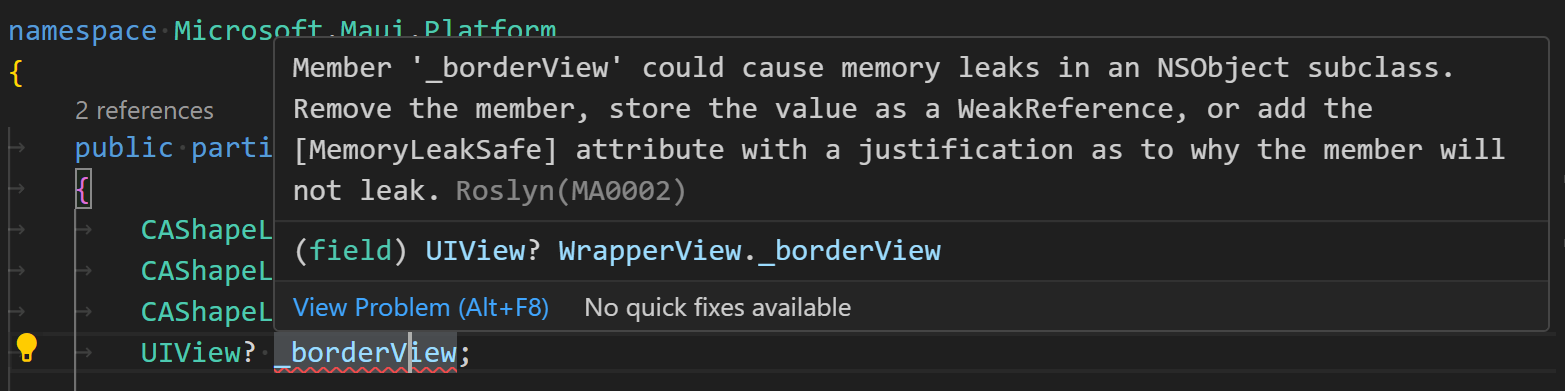
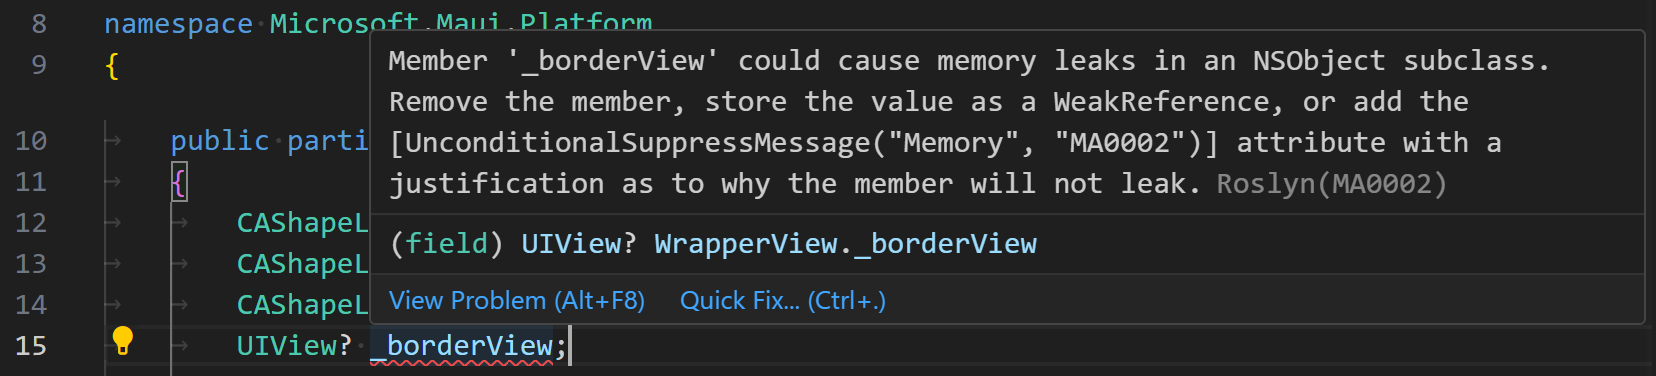
Remove MemoryAnalyzers.Attributes
We can use the BCL's `[UnconditionalSuppressMessage]` instead.

diff --git a/MemoryAnalyzers/MemoryAnalyzers.Test/MemoryAnalyzersUnitTests.cs b/MemoryAnalyzers/MemoryAnalyzers.Test/MemoryAnalyzersUnitTests.cs
@@ -43,18 +43,48 @@ namespace MemoryAnalyzers.Test
 		}
 
 		[TestMethod]
-		public async Task SafeEvent()
+		public async Task UnconditionalSuppressMessage_MA0001()
 		{
 			var test = """
 				class Foo : NSObject
 				{
-					[MemoryLeakSafe("Event tested via MemoryTests.MyEvent")]
+					[UnconditionalSuppressMessage("Memory", "MA0001")]
 					public event EventHandler {|#0:EventName|};
 				}
 			""";
 
 			// 0 warnings
 			await VerifyCS.VerifyAnalyzerAsync(test);
+		}
+
+		[TestMethod]
+		public async Task UnconditionalSuppressMessage_MA0001_Justification()
+		{
+			var test = """
+				class Foo : NSObject
+				{
+					[UnconditionalSuppressMessage("Memory", "MA0001", Justification = "I know what I'm doing! LOL?")]
+					public event EventHandler {|#0:EventName|};
+				}
+			""";
+
+			// 0 warnings
+			await VerifyCS.VerifyAnalyzerAsync(test);
+		}
+
+		[TestMethod]
+		public async Task UnconditionalSuppressMessage_WrongCode()
+		{
+			var test = """
+				class Foo : NSObject
+				{
+					[UnconditionalSuppressMessage("Memory", "ABC1234")]
+					public event EventHandler {|#0:EventName|};
+				}
+			""";
+
+			var expected = VerifyCS.Diagnostic("MA0001").WithLocation(0).WithArguments("EventName");
+			await VerifyCS.VerifyAnalyzerAsync(test, expected);
 		}
 
 		[TestMethod]
@@ -134,12 +164,12 @@ namespace MemoryAnalyzers.Test
 		}
 
 		[TestMethod]
-		public async Task SafeField()
+		public async Task UnconditionalSuppressMessage_MA0002_Field()
 		{
 			var test = """
 				class MyViewSubclass : UIView
 				{
-					[MemoryLeakSafe("Field tested via MemoryTests.MyField")]
+					[UnconditionalSuppressMessage("Memory", "MA0002")]
 					public UIView {|#0:FieldName|};
 				}
 			""";
@@ -182,12 +212,12 @@ namespace MemoryAnalyzers.Test
 		}
 
 		[TestMethod]
-		public async Task SafeProperty()
+		public async Task UnconditionalSuppressMessage_MA0002_Property()
 		{
 			var test = """
 				class MyViewSubclass : UIView
 				{
-					[MemoryLeakSafe("Property tested via MemoryTests.MyProperty")]
+					[UnconditionalSuppressMessage("Memory", "MA0002")]
 					public UIView {|#0:FieldName|} { get; set; }
 				}
 			""";
@@ -202,7 +232,7 @@ namespace MemoryAnalyzers.Test
 				[Register(Name = "UITextField", IsWrapper = true)]
 				class UITextField
 				{
-					[MemoryLeakSafe("Ignore for this test")]
+					[UnconditionalSuppressMessage("Memory", "MA0001")]
 					public event EventHandler EditingDidBegin;
 				}
 
@@ -228,7 +258,7 @@ namespace MemoryAnalyzers.Test
 				[Register(Name = "UITextField", IsWrapper = true)]
 				class UITextField
 				{
-					[MemoryLeakSafe("Ignore for this test")]
+					[UnconditionalSuppressMessage("Memory", "MA0001")]
 					public event EventHandler EditingDidBegin;
 				}
 
@@ -255,19 +285,19 @@ namespace MemoryAnalyzers.Test
 				[Register(Name = "UITextField", IsWrapper = true)]
 				class UITextField
 				{
-					[MemoryLeakSafe("Ignore for this test")]
+					[UnconditionalSuppressMessage("Memory", "MA0001")]
 					public event EventHandler EditingDidBegin;
 				}
 
 				class MySubclass : UIView
 				{
-					[MemoryLeakSafe("Ignore for this test")]
+					[UnconditionalSuppressMessage("Memory", "MA0001")]
 					public event EventHandler InheritedEvent;
 				}
 
 				class MyView : MySubclass
 				{
-					[MemoryLeakSafe("Ignore for this test")]
+					[UnconditionalSuppressMessage("Memory", "MA0001")]
 					public event EventHandler MyOwnedEvent;
 
 					event EventHandler MyPrivateEvent;
@@ -300,7 +330,7 @@ namespace MemoryAnalyzers.Test
 				[Register("UIControl", true)]
 				class UIControl
 				{
-					[MemoryLeakSafe("Ignore for this test")]
+					[UnconditionalSuppressMessage("Memory", "MA0001")]
 					public event EventHandler ValueChanged;
 				}
 

diff --git a/MemoryAnalyzers/MemoryAnalyzers.CodeFixes/MemoryAnalyzersCodeFixProvider.cs b/MemoryAnalyzers/MemoryAnalyzers.CodeFixes/MemoryAnalyzersCodeFixProvider.cs
@@ -48,9 +48,9 @@ namespace MemoryAnalyzers
 					diagnostic);
 				context.RegisterCodeFix(
 					CodeAction.Create(
-						title: CodeFixResources.AddMemoryLeakSafe,
-						createChangedSolution: c => AddMemorySafeAttribute(context.Document, declaration, c),
-						equivalenceKey: nameof(CodeFixResources.AddMemoryLeakSafe)),
+						title: CodeFixResources.AddUnconditionalSuppressMessage,
+						createChangedSolution: c => AddMemorySafeAttribute(diagnostic, context.Document, declaration, c),
+						equivalenceKey: nameof(CodeFixResources.AddUnconditionalSuppressMessage)),
 					diagnostic);
 			}
 			else if (diagnostic.Id == MemoryAnalyzer.MA0002)
@@ -64,9 +64,9 @@ namespace MemoryAnalyzers
 					diagnostic);
 				context.RegisterCodeFix(
 					CodeAction.Create(
-						title: CodeFixResources.AddMemoryLeakSafe,
-						createChangedSolution: c => AddMemorySafeAttribute(context.Document, declaration, c),
-						equivalenceKey: nameof(CodeFixResources.AddMemoryLeakSafe)),
+						title: CodeFixResources.AddUnconditionalSuppressMessage,
+						createChangedSolution: c => AddMemorySafeAttribute(diagnostic, context.Document, declaration, c),
+						equivalenceKey: nameof(CodeFixResources.AddUnconditionalSuppressMessage)),
 					diagnostic);
 			}
 			else if (diagnostic.Id == MemoryAnalyzer.MA0003)
@@ -91,7 +91,7 @@ namespace MemoryAnalyzers
 			return document.WithSyntaxRoot(root.RemoveNode(node, SyntaxRemoveOptions.KeepLeadingTrivia | SyntaxRemoveOptions.KeepTrailingTrivia)!).Project.Solution;
 		}
 
-		async Task<Solution> AddMemorySafeAttribute(Document document, MemberDeclarationSyntax member, CancellationToken cancellationToken)
+		async Task<Solution> AddMemorySafeAttribute(Diagnostic diagnostic, Document document, MemberDeclarationSyntax member, CancellationToken cancellationToken)
 		{
 			var root = await document.GetSyntaxRootAsync(cancellationToken);
 			if (root is null || member.Parent is null)
@@ -100,14 +100,29 @@ namespace MemoryAnalyzers
 			// Used: http://roslynquoter.azurewebsites.net/
 			var attributes = member.AttributeLists.Add(
 				AttributeList(SingletonSeparatedList(
-					Attribute(IdentifierName("MemoryLeakSafe"))
+					Attribute(
+						IdentifierName("UnconditionalSuppressMessage"))
 						.WithArgumentList(
 							AttributeArgumentList(
-								SingletonSeparatedList(
-									AttributeArgument(
-										LiteralExpression(
-											SyntaxKind.StringLiteralExpression,
-											Literal("Proven safe in test: XYZ"))))))
+								SeparatedList<AttributeArgumentSyntax>(
+									new SyntaxNodeOrToken[]{
+										AttributeArgument(
+											LiteralExpression(
+												SyntaxKind.StringLiteralExpression,
+												Literal("Memory"))),
+										Token(SyntaxKind.CommaToken),
+										AttributeArgument(
+											LiteralExpression(
+												SyntaxKind.StringLiteralExpression,
+												Literal(diagnostic.Id))),
+										Token(SyntaxKind.CommaToken),
+										AttributeArgument(
+											LiteralExpression(
+												SyntaxKind.StringLiteralExpression,
+												Literal("Proven safe in test: XYZ")))
+										.WithNameEquals(
+											NameEquals(
+												IdentifierName("Justification")))})))
 				)));
 
 			return document.WithSyntaxRoot(

diff --git a/MemoryAnalyzers/MemoryAnalyzers/MemoryAnalyzer.cs b/MemoryAnalyzers/MemoryAnalyzers/MemoryAnalyzer.cs
@@ -74,7 +74,7 @@ namespace MemoryAnalyzers
 				return;
 			if (!IsFromNSObjectSubclass(symbol.ContainingType))
 				return;
-			if (HasMemoryLeakSafeAttribute(symbol))
+			if (HasUnconditionalSuppressMessage(symbol, MA0001))
 				return;
 
 			context.ReportDiagnostic(Diagnostic.Create(MA0001Rule, symbol.Locations[0], symbol.Name));
@@ -84,7 +84,7 @@ namespace MemoryAnalyzers
 		{
 			if (context.ContainingSymbol is not IFieldSymbol symbol || !IsFromNSObjectSubclass(symbol.ContainingType))
 				return;
-			if (HasMemoryLeakSafeAttribute(symbol))
+			if (HasUnconditionalSuppressMessage(symbol, MA0002))
 				return;
 			if (symbol.Type.IsValueType)
 				return;
@@ -99,7 +99,7 @@ namespace MemoryAnalyzers
 		{
 			if (context.ContainingSymbol is not IPropertySymbol symbol || !IsFromNSObjectSubclass(symbol.ContainingType))
 				return;
-			if (HasMemoryLeakSafeAttribute(symbol))
+			if (HasUnconditionalSuppressMessage(symbol, MA0002))
 				return;
 			if (symbol.Type.IsValueType)
 				return;
@@ -131,12 +131,22 @@ namespace MemoryAnalyzers
 			context.ReportDiagnostic(Diagnostic.Create(MA0003Rule, assignment.Right.GetLocation(), methodSymbol.Name));
 		}
 
-		static bool HasMemoryLeakSafeAttribute(ISymbol symbol)
+		static bool HasUnconditionalSuppressMessage(ISymbol symbol, string expectedCode)
 		{
 			foreach (var attribute in symbol.GetAttributes())
 			{
-				if (attribute.AttributeClass?.Name == "MemoryLeakSafeAttribute")
-					return true;
+				if (attribute.AttributeClass?.Name == "UnconditionalSuppressMessageAttribute")
+				{
+					var ctorArgs = attribute.ConstructorArguments;
+					if (ctorArgs.Length == 2)
+					{
+						return ctorArgs[1].Value as string == expectedCode;
+					}
+
+					// This only has a single 2-argument constructor, but let's keep this logic in case it ever changes
+					var namedArgs = attribute.NamedArguments.FirstOrDefault(n => n.Key == "CheckId");
+					return namedArgs.Value.Value as string == expectedCode;
+				}
 			}
 			return false;
 		}

diff --git a/MemoryAnalyzers/MemoryAnalyzers.Test/CodeFixUnitTests.cs b/MemoryAnalyzers/MemoryAnalyzers.Test/CodeFixUnitTests.cs
@@ -31,7 +31,7 @@ namespace MemoryAnalyzers.Test
 		}
 
 		[TestMethod]
-		public async Task MA0001_MemoryLeakSafe()
+		public async Task MA0001_UnconditionalSuppressMessage()
 		{
 			var test = """
 			class Foo : NSObject
@@ -43,7 +43,7 @@ namespace MemoryAnalyzers.Test
 			var codefix = """
 			class Foo : NSObject
 			{
-			    [MemoryLeakSafe("Proven safe in test: XYZ")]
+			    [UnconditionalSuppressMessage("Memory", "MA0001", Justification = "Proven safe in test: XYZ")]
 			    public event EventHandler {|#0:EventName|};
 			}
 			""";
@@ -74,7 +74,7 @@ namespace MemoryAnalyzers.Test
 		}
 
 		[TestMethod]
-		public async Task MA0002_MemoryLeakSafe()
+		public async Task MA0002_UnconditionalSuppressMessage()
 		{
 			var test = """
 			class Foo : NSObject
@@ -86,7 +86,7 @@ namespace MemoryAnalyzers.Test
 			var codefix = """
 			class Foo : NSObject
 			{
-			    [MemoryLeakSafe("Proven safe in test: XYZ")]
+			    [UnconditionalSuppressMessage("Memory", "MA0002", Justification = "Proven safe in test: XYZ")]
 			    public UIView {|#0:FieldName|};
 			}
 			""";
@@ -102,7 +102,7 @@ namespace MemoryAnalyzers.Test
 			[Register("UITextField", true)]
 			class UITextField
 			{
-			    [MemoryLeakSafe("Ignore for this test")]
+			    [UnconditionalSuppressMessage("Memory", "MA0001")]
 			    public event EventHandler EditingDidBegin;
 			}
 
@@ -123,7 +123,7 @@ namespace MemoryAnalyzers.Test
 			[Register("UITextField", true)]
 			class UITextField
 			{
-			    [MemoryLeakSafe("Ignore for this test")]
+			    [UnconditionalSuppressMessage("Memory", "MA0001")]
 			    public event EventHandler EditingDidBegin;
 			}
 

diff --git a/MemoryAnalyzers/MemoryAnalyzers/Resources.Designer.cs b/MemoryAnalyzers/MemoryAnalyzers/Resources.Designer.cs
@@ -70,7 +70,7 @@ namespace MemoryAnalyzers {
         }
         
         /// <summary>
-        ///   Looks up a localized string similar to Event &apos;{0}&apos; could cause memory leaks in an NSObject subclass. Remove the event or add the [MemoryLeakSafe] attribute with a justification as to why the event will not leak..
+        ///   Looks up a localized string similar to Event &apos;{0}&apos; could cause memory leaks in an NSObject subclass. Remove the event or add the [UnconditionalSuppressMessage(&quot;Memory&quot;, &quot;MA0001&quot;)] attribute with a justification as to why the event will not leak..
         /// </summary>
         internal static string MA0001MessageFormat {
             get {
@@ -97,7 +97,7 @@ namespace MemoryAnalyzers {
         }
         
         /// <summary>
-        ///   Looks up a localized string similar to Member &apos;{0}&apos; could cause memory leaks in an NSObject subclass. Remove the member, store the value as a WeakReference, or add the [MemoryLeakSafe] attribute with a justification as to why the member will not leak..
+        ///   Looks up a localized string similar to Member &apos;{0}&apos; could cause memory leaks in an NSObject subclass. Remove the member, store the value as a WeakReference, or add the [UnconditionalSuppressMessage(&quot;Memory&quot;, &quot;MA0002&quot;)] attribute with a justification as to why the member will not leak..
         /// </summary>
         internal static string MA0002MessageFormat {
             get {

diff --git a/MemoryAnalyzers/MemoryAnalyzers.Test/Verifiers/CSharpCodeFixVerifier`2.cs b/MemoryAnalyzers/MemoryAnalyzers.Test/Verifiers/CSharpCodeFixVerifier`2.cs
@@ -68,20 +68,28 @@ namespace MemoryAnalyzers.Test
 		{
 			// Global usings
 			testState.Sources.Add("global using System;");
+			testState.Sources.Add("global using System.Diagnostics.CodeAnalysis;");
 			testState.Sources.Add("global using Foundation;");
 			testState.Sources.Add("global using UIKit;");
 
-			// [Safe*] attributes
+			// [UnconditionalSuppressMessage]
 			testState.Sources.Add("""
-				[AttributeUsage(AttributeTargets.Event | AttributeTargets.Field | AttributeTargets.Property)]
-				sealed class MemoryLeakSafeAttribute : Attribute
+				namespace System.Diagnostics.CodeAnalysis;
+
+				[AttributeUsage(AttributeTargets.All, Inherited = false, AllowMultiple = true)]
+				sealed class UnconditionalSuppressMessageAttribute : Attribute
 				{
-					public MemoryLeakSafeAttribute(string justification)
+					public UnconditionalSuppressMessageAttribute(string category, string checkId)
 					{
-						Justification = justification;
+						Category = category;
+						CheckId = checkId;
 					}
 
-					public string Justification { get; private set; }
+					public string Category { get; }
+
+					public string CheckId { get; }
+
+					public string Justification { get; set; }
 				}
 			""");
 

diff --git a/MemoryAnalyzers/MemoryAnalyzers.CodeFixes/CodeFixResources.Designer.cs b/MemoryAnalyzers/MemoryAnalyzers.CodeFixes/CodeFixResources.Designer.cs
@@ -61,11 +61,11 @@ namespace MemoryAnalyzers {
         }
         
         /// <summary>
-        ///   Looks up a localized string similar to Add [MemoryLeakSafe] attribute.
+        ///   Looks up a localized string similar to Add [UnconditionalSuppressMessage] attribute.
         /// </summary>
-        internal static string AddMemoryLeakSafe {
+        internal static string AddUnconditionalSuppressMessage {
             get {
-                return ResourceManager.GetString("AddMemoryLeakSafe", resourceCulture);
+                return ResourceManager.GetString("AddUnconditionalSuppressMessage", resourceCulture);
             }
         }
         

diff --git a/MemoryAnalyzers/MemoryAnalyzers/AnalyzerReleases.Unshipped.md b/MemoryAnalyzers/MemoryAnalyzers/AnalyzerReleases.Unshipped.md
@@ -5,6 +5,6 @@
 
 Rule ID | Category | Severity | Notes
 --------|----------|----------|-------
-MA0001 | Memory | Warning | C# events can cause memory leaks in an NSObject subclass. Remove the event or add the [MemoryLeakSafe] attribute with a justification as to why the event will not leak.
-MA0002 | Memory | Warning | Reference type members can cause memory leaks in an NSObject subclass. Remove the member, store the value as a WeakReference, or add the [MemoryLeakSafe] attribute with a justification as to why the member will not leak.
+MA0001 | Memory | Warning | C# events can cause memory leaks in an NSObject subclass. Remove the event or add the [UnconditionalSuppressMessage("Memory", "MA0001")] attribute with a justification as to why the event will not leak.
+MA0002 | Memory | Warning | Reference type members can cause memory leaks in an NSObject subclass. Remove the member, store the value as a WeakReference, or add the [UnconditionalSuppressMessage("Memory", "MA0002")] attribute with a justification as to why the member will not leak.
 MA0003 | Memory | Warning | Subscribing to events with instance methods can cause memory leaks in an NSObject subclass. Remove the subscription or convert the method to a static method.
